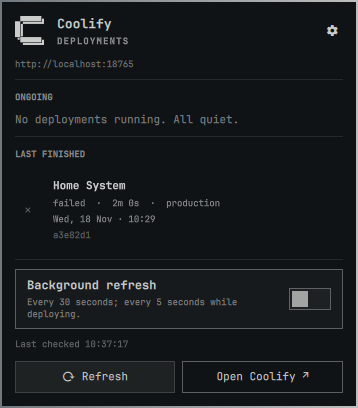
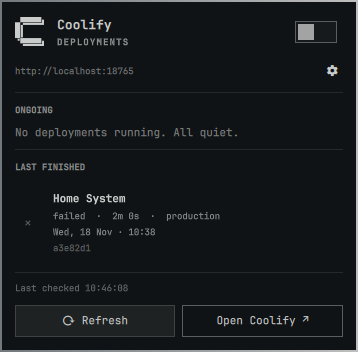
Simplify the Coolify panel header

diff --git a/Panel.qml b/Panel.qml
@@ -52,6 +52,17 @@ Ui.Panel {
         } else
             worker.running = true;
     }
+    function toggleBackground() {
+        if (!root.state.configured || !root.bar || !root.bar.shell)
+            return;
+        var entry = {
+            id: root.moduleName
+        };
+        for (var key in root.settings)
+            entry[key] = root.settings[key];
+        entry.backgroundRefresh = !root.autoRefresh;
+        root.bar.shell.updateEntryInline(root.moduleName, entry);
+    }
     function refresh() {
         send("refresh");
     }
@@ -172,7 +183,6 @@ Ui.Panel {
                         width: parent.width
                         title: "Coolify"
                         meta: root.editing ? root.t("connection") : (root.active.length ? root.t("deploying") : root.t("deployments"))
-                        detail: root.busy ? root.t("refreshing") : (root.active.length ? String(root.active.length) : "")
                         iconComponent: Component {
                             CoolifyIcon {
                                 width: Style.space(32)
@@ -180,15 +190,47 @@ Ui.Panel {
                             }
                         }
                         trailingControl: Component {
-                            Ui.PanelActionButton {
-                                iconText: ""
-                                tooltipText: root.t("connection")
-                                focusable: true
-                                onClicked: {
-                                    root.editing = !root.editing;
-                                    urlInput.text = root.state.url || "";
-                                    tokenInput.text = "";
+                            Ui.ToggleSwitch {
+                                id: refreshToggle
+                                anchors.verticalCenter: parent.verticalCenter
+                                checked: root.autoRefresh
+                                interactive: root.state.configured
+                                activeFocusOnTab: true
+                                hasCursor: activeFocus
+                                onToggled: root.toggleBackground()
+                                Keys.onSpacePressed: root.toggleBackground()
+                                Keys.onReturnPressed: root.toggleBackground()
+                                Accessible.name: root.t("background")
+                                Ui.PanelToolTip {
+                                    visible: refreshToggle.containsMouse
+                                    text: root.t("background") + "\n" + root.t("pollHelp")
                                 }
+                            }
+                        }
+                    }
+                    Row {
+                        id: instanceRow
+                        visible: root.state.configured
+                        width: parent.width
+                        spacing: Style.space(8)
+                        Label {
+                            width: parent.width - connectionButton.width - parent.spacing
+                            anchors.verticalCenter: parent.verticalCenter
+                            text: root.state.url || ""
+                            maximumLineCount: 1
+                            elide: Text.ElideMiddle
+                            opacity: 0.55
+                            font.pixelSize: Style.font.caption
+                        }
+                        Ui.PanelActionButton {
+                            id: connectionButton
+                            iconText: ""
+                            tooltipText: root.t("connection")
+                            focusable: true
+                            onClicked: {
+                                root.editing = !root.editing;
+                                urlInput.text = root.state.url || "";
+                                tokenInput.text = "";
                             }
                         }
                     }
@@ -272,14 +314,7 @@ Ui.Panel {
                         width: parent.width
                         visible: root.state.configured && !root.editing
                         spacing: Style.space(10)
-                        Label {
-                            width: parent.width
-                            text: root.state.url || ""
-                            maximumLineCount: 1
-                            elide: Text.ElideMiddle
-                            opacity: 0.55
-                            font.pixelSize: Style.font.caption
-                        }
+
                         Ui.PanelSeparator {
                             width: parent.width
                         }
@@ -334,23 +369,6 @@ Ui.Panel {
                         }
                         Ui.PanelSeparator {
                             width: parent.width
-                        }
-                        Ui.Toggle {
-                            width: parent.width
-                            label: root.t("background")
-                            description: root.t("pollHelp")
-                            checked: root.autoRefresh
-                            onClicked: {
-                                if (root.bar && root.bar.shell) {
-                                    var entry = {
-                                        id: root.moduleName
-                                    };
-                                    for (var key in root.settings)
-                                        entry[key] = root.settings[key];
-                                    entry.backgroundRefresh = !root.autoRefresh;
-                                    root.bar.shell.updateEntryInline(root.moduleName, entry);
-                                }
-                            }
                         }
                         Label {
                             width: parent.width

diff --git a/README.md b/README.md
@@ -38,7 +38,7 @@ Connection settings let you change the URL or token. A blank token retains the c
 - Middle-click the icon or use **Refresh** for an immediate check.
 - Tab/Shift+Tab moves between controls, Enter/Space activates, Escape closes, and the mouse wheel scrolls long lists.
 
-Background refresh defaults to every 30 seconds while idle and every 5 seconds while deploying. History is cached for up to 30 seconds while the queue is unchanged; queue transitions and manual refresh check it immediately. Disable background refresh to check only on opening or manual refresh. Connection failures back off to 60 seconds and preserve the last known result with a stale-data message.
+Background refresh defaults to every 30 seconds while idle and every 5 seconds while deploying. History is cached for up to 30 seconds while the queue is unchanged; queue transitions and manual refresh check it immediately. Use the header switch to disable background refresh and check only on opening or manual refresh. Connection failures back off to 60 seconds and preserve the last known result with a stale-data message.
 
 In Omarchy's widget settings, **Watched application UUIDs** accepts a comma-separated list. Empty watches all visible applications. Credentials are shared across this computer's monitors; each monitor owns its panel state.
 

diff --git a/docs/verification.md b/docs/verification.md
@@ -8,6 +8,7 @@ A local, read-only Coolify-shaped API fixture supplied sample deployments. These
 
 - Coolify mark and active count fit the native bar slot.
 - Header, separators, input fields and footer share their expected panel insets.
+- Background refresh uses the top-right header switch; the connection gear aligns with the instance URL. The boxed deployment count and large refresh settings row are removed.
 - Refresh/Open Coolify have equal widths and heights. Connection action buttons have equal widths when both are present.
 - Footer actions stay visible while long content scrolls.
 - Setup, running, idle, failed and disconnected states render without plugin QML runtime errors.
